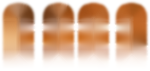
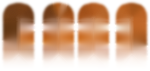
Revert "Neue Tanne und Schneemann: Tanne wackelt, Schneemann winkt erschrocken"
This reverts commit 0739c138627cc1f70d04e0728a75c6d05aed3edd.

Changed region(s): [[0.0, 0.0282, 0.1867, 0.7042], [0.32, 0.0282, 0.4, 0.1972]]

diff --git a/index.html b/index.html
@@ -160,21 +160,6 @@
     80%  { transform: translate(-50%, calc(-50% - var(--h) * .25)); }
     100% { transform: translate(-50%, -50%); }
   }
-  /* Tanne und Schneemann als eigene Figuren */
-  .fig { position: absolute; pointer-events: none; z-index: 2; }
-  .fig img { position: absolute; display: block; }
-  .fig-tree { transform-origin: 50% 96%; }
-  .fig-tree.go { animation: treeshake 1s ease-out; }
-  @keyframes treeshake {
-    0% { transform: rotate(0); } 10% { transform: rotate(-4deg); } 26% { transform: rotate(3.5deg); }
-    42% { transform: rotate(-2.5deg); } 58% { transform: rotate(1.6deg); } 74% { transform: rotate(-.8deg); } 100% { transform: rotate(0); }
-  }
-  .fig-sm .angst { opacity: 0; transition: opacity .15s; }
-  .fig-sm.scared .angst { opacity: 1; }
-  .fig-sm.scared .arm-l { animation: wave-l .5s ease-in-out 5 alternate; }
-  .fig-sm.scared .arm-r { animation: wave-r .5s ease-in-out 5 alternate; }
-  @keyframes wave-l { from { transform: rotate(8deg); } to { transform: rotate(-28deg); } }
-  @keyframes wave-r { from { transform: rotate(-8deg); } to { transform: rotate(28deg); } }
   .hint { position: fixed; left: 50%; bottom: calc(env(safe-area-inset-bottom) + 28px);
     transform: translateX(-50%) translateY(20px); opacity: 0; transition: all .4s ease;
     background: #f2e3cb; color: #3a2414; font-family: 'EB Garamond', Georgia, serif; font-size: 18px;
@@ -341,8 +326,7 @@ const LAYOUTS = {
     img: 'haus-voll.jpg', W: 1199, H: 2702, OFF: 790,
     win: [11, 9.5 * 1312 / 2702], win24: [16, 13 * 1312 / 2702],
     glow: [16, 13 * 1312 / 2702], glow24: [22, 17 * 1312 / 2702],
-    snowman: [1099, 1107, 200, 290], mouth: [1058, 1062], tree: [84, 1012, 259, 400], treeTop: [110, 880],
-    figTree: [-45, 812, 400], figSnow: [999, 962, 290], lamps: [[445, 1095, 70, 110], [754, 1083, 70, 110]], chimney: [875, 150, 170, 210], smoke: [878, 45], heart: { c: [598, 206], s: [108, 100], hs: [116, 108], img: 'handy' }, fences: [{"slats": [[107.5, 1167.5, 23], [157.5, 1167.5, 29], [200.5, 1167.5, 29], [243.5, 1167.5, 31]], "patch": [177.5, 1167.5, 171]}, {"slats": [[923.5, 1168.0, 31], [966.5, 1168.0, 31], [1003.5, 1168.0, 31]], "patch": [963.5, 1168.0, 119]}], drift: [[5, 35], [1.3, 2.1]],
+    snowman: [1098, 1080, 165, 250], mouth: [1075, 1040], tree: [92, 1010, 185, 390], treeTop: [95, 900], lamps: [[445, 1095, 70, 110], [754, 1083, 70, 110]], chimney: [875, 150, 170, 210], smoke: [878, 45], heart: { c: [598, 206], s: [108, 100], hs: [116, 108], img: 'handy' }, fences: [{"slats": [[107.5, 1167.5, 23], [157.5, 1167.5, 29], [200.5, 1167.5, 29], [243.5, 1167.5, 31]], "patch": [177.5, 1167.5, 171]}, {"slats": [[923.5, 1168.0, 31], [966.5, 1168.0, 31], [1003.5, 1168.0, 31]], "patch": [963.5, 1168.0, 119]}], drift: [[5, 35], [1.3, 2.1]],
     windows: {
       1:[365,370], 2:[518,370], 3:[683,370], 4:[835,370],
       5:[288,515], 6:[447,515], 7:[602,515], 8:[762,515], 9:[916,515],
@@ -360,8 +344,7 @@ const LAYOUTS = {
   pc: {
     img: 'haus-pc.jpg', W: 1672, H: 941, OFF: 0,
     win: [6.3, 10.1], win24: [9, 20], glow: [9, 15], glow24: [13, 25],
-    snowman: [1236, 767, 150, 217], mouth: [1215, 735], tree: [404, 717, 206, 318], treeTop: [440, 600],
-    figTree: [301, 558, 318], figSnow: [1161, 659, 217], lamps: [[717, 779, 70, 95], [958, 774, 70, 95]], chimney: [1045, 135, 135, 195], smoke: [1045, 55], heart: { c: [834.5, 149], s: [81, 76], hs: [89, 84], img: 'pc' }, fences: [{"slats": [[447.5, 835.5, 29], [487.5, 835.5, 29], [522.5, 835.5, 29], [560.5, 835.5, 29]], "patch": [504.0, 835.5, 150]}, {"slats": [[1075.5, 832.5, 29], [1113.5, 832.5, 31], [1151.5, 832.5, 31]], "patch": [1114.0, 832.5, 114]}], drift: [[90, 170], [0.2, 0.45]],
+    snowman: [1232, 765, 150, 225], mouth: [1212, 720], tree: [410, 715, 180, 300], treeTop: [440, 600], lamps: [[717, 779, 70, 95], [958, 774, 70, 95]], chimney: [1045, 135, 135, 195], smoke: [1045, 55], heart: { c: [834.5, 149], s: [81, 76], hs: [89, 84], img: 'pc' }, fences: [{"slats": [[447.5, 835.5, 29], [487.5, 835.5, 29], [522.5, 835.5, 29], [560.5, 835.5, 29]], "patch": [504.0, 835.5, 150]}, {"slats": [[1075.5, 832.5, 29], [1113.5, 832.5, 31], [1151.5, 832.5, 31]], "patch": [1114.0, 832.5, 114]}], drift: [[90, 170], [0.2, 0.45]],
     windows: {
       1:[665,268], 2:[778,268], 3:[893,268], 4:[1005,268],
       5:[610,372], 6:[722,372], 7:[836,372], 8:[950,372], 9:[1063,372],
@@ -449,7 +432,7 @@ findImage().then(src => {
     });
 
     // Schneemann und Tanne zum Antippen: sie sagen etwas
-    function talker(label, box, anchor, html, side, onTap) {
+    function talker(label, box, anchor, html, side) {
       const [cx, cy, w, h] = box, [l, t] = px(cx, cy);
       const btn = document.createElement('button');
       btn.className = 'snowman'; btn.setAttribute('aria-label', label);
@@ -465,44 +448,12 @@ findImage().then(src => {
         document.querySelectorAll('.bubble.show').forEach(o => o !== bubble && o.classList.remove('show'));
         bubble.classList.remove('show'); void bubble.offsetWidth; bubble.classList.add('show');
         clearTimeout(timer); timer = setTimeout(() => bubble.classList.remove('show'), 4200);
-        if (onTap) onTap();
       };
     }
-    // Tanne als eigene Figur (wackelt beim Antippen)
-    const box = (x, y, w, h) => ({ left: (x / L.W * 100) + '%', top: ((y + L.OFF) / L.H * 100) + '%',
-                                   width: (w / L.W * 100) + '%', height: (h / L.H * 100) + '%' });
-    const [tx, ty, th] = L.figTree, tw = th * 840 / 1297;
-    const tree = document.createElement('img');
-    tree.className = 'fig fig-tree'; tree.alt = ''; tree.src = 'tanne.webp';
-    Object.assign(tree.style, box(tx, ty, tw, th));
-    wrap.appendChild(tree);
-    const shake = () => { tree.classList.remove('go'); void tree.offsetWidth; tree.classList.add('go'); };
-
-    // Schneemann als eigene Figur: Arme und erschrockenes Gesicht
-    const [sx, sy, sh] = L.figSnow, SW = 855, SH = 1242, sw = sh * SW / SH;
-    const sm = document.createElement('div');
-    sm.className = 'fig fig-sm';
-    Object.assign(sm.style, box(sx, sy, sw, sh));
-    const part = (src, cls, x, y, w, h, pivot) => {
-      const e = document.createElement('img'); e.src = src; e.alt = ''; e.className = cls;
-      e.style.left = (x / SW * 100) + '%'; e.style.top = (y / SH * 100) + '%';
-      e.style.width = (w / SW * 100) + '%'; e.style.height = (h / SH * 100) + '%';
-      if (pivot) e.style.transformOrigin = ((pivot[0] - x) / w * 100) + '% ' + ((pivot[1] - y) / h * 100) + '%';
-      sm.appendChild(e);
-    };
-    part('schneemann-arm-l.png', 'arm-l', 0, 451, 185, 215, [168, 648]);
-    part('schneemann-arm-r.png', 'arm-r', 601, 474, 254, 239, [622, 690]);
-    part('schneemann.webp', 'body', 0, 0, SW, SH);
-    part('schneemann-angst.png', 'angst', 267, 302, 196, 226);
-    wrap.appendChild(sm);
-    let scareT;
-    const scare = () => { sm.classList.remove('scared'); void sm.offsetWidth; sm.classList.add('scared');
-      clearTimeout(scareT); scareT = setTimeout(() => sm.classList.remove('scared'), 4200); };
-
     talker('Schneemann', L.snowman, [L.mouth[0] - 18, L.mouth[1] - 30],
-      'Ich spür’ meine Beine nicht.<br>Ich kann meine Beine nicht spüren!!', 'left', scare);
+      'Ich spür’ meine Beine nicht.<br>Ich kann meine Beine nicht spüren!!', 'left');
     talker('Tanne', L.tree, L.treeTop,
-      'Und wer ist der funky aussehende<br>Esel da drüben?', 'right', shake);
+      'Und wer ist der funky aussehende<br>Esel da drüben?', 'right');
 
     // Laternen leuchten beim Antippen kurz heller
     L.lamps.forEach(([cx, cy, w, h], i) => {
